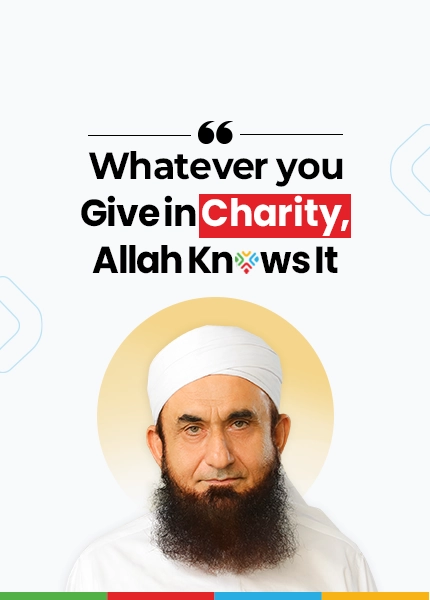
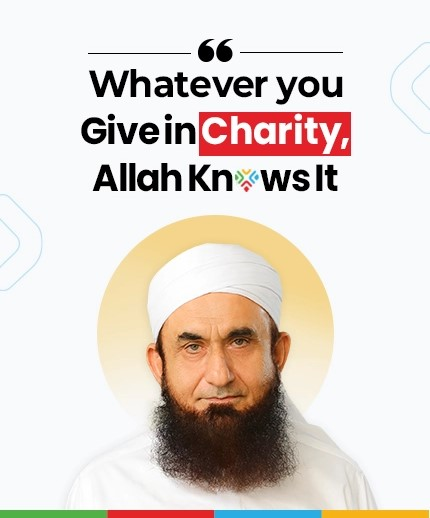
updates

diff --git a/src/components/checkoutForm/CheckoutForm.jsx b/src/components/checkoutForm/CheckoutForm.jsx
@@ -255,7 +255,6 @@ const CheckoutForm = () => {
   // PayFast handler function
   const postToPayfast = (payfastResponse, formData) => {
     try {
-      console.log("PayFast response: **********************", payfastResponse);
       // Validate required fields from response
       if (!payfastResponse) {
         console.error('PayFast response is missing')
@@ -301,7 +300,6 @@ const CheckoutForm = () => {
         TRAN_TYPE: "ECOMM_PURCHASE",
       }
 
-      // console.log("PayFast fields:", fields)
       
       // Build and submit a real HTML form (POST navigation)
       const form = document.createElement('form')
@@ -503,8 +501,6 @@ const CheckoutForm = () => {
 
       if (currentPayment === 'payfast') {
         // Debug: Log the response to see its structure
-        console.log('PayFast response:', response.data)
-        console.log('PayFast response.data:', response.data?.data)
         // Call postToPayfast with the response data from the server
         // Try different possible response structures
         const payfastData = response.data?.data || response.data

diff --git a/src/components/waysToDonate/AnimatedButton.css b/src/components/waysToDonate/AnimatedButton.css
@@ -1,6 +1,6 @@
 .animated-donate-btn {
   position: fixed;
-  bottom: 30px;
+  bottom: 120px;
   right: 30px;
   z-index: 1000;
   padding: 0;
@@ -377,7 +377,7 @@
 
 @media (max-width: 480px) {
   .animated-donate-btn {
-    bottom: 15px;
+    bottom: 50px;
     right: 15px;
     border-radius: 50%;
     transition: border-radius 0.3s ease;

diff --git a/src/common/styles/common.css b/src/common/styles/common.css
@@ -1,6 +1,5 @@
 .banner_img {
-    /* height: 75vh; */
-    /* max-height: 70vh; */
+  margin-top: 110px;
     opacity: 0;
     transform: scale(1.01);
     transition: opacity 0.8s ease-out, transform 0.8s ease-out;
